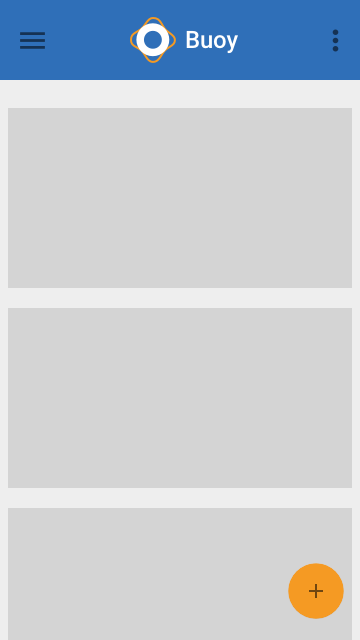
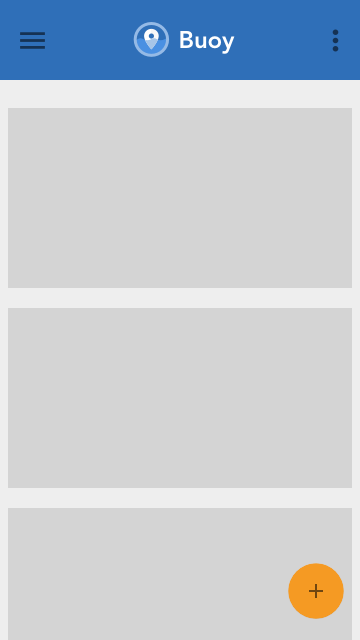
Update 2014-12-18T20:41:12.651Z

Changed region(s): [[0.3667, 0.0312, 0.6722, 0.0938]]

diff --git a/assets/stylesheets/main.css b/assets/stylesheets/main.css
@@ -899,7 +899,7 @@ html * {
 
 body {
   color: #bed1ec;
-  background-color: #477DCA; }
+  background-color: #2F6FB8; }
 
 a {
   color: #477DCA;
@@ -986,10 +986,10 @@ html, body {
     clear: both; }
   .cd-header #cd-logo {
     float: left;
-    margin: 0 0 0 5%; }
+    margin: 2.5px 0 0 5%; }
     .cd-header #cd-logo img {
       display: block;
-      width: 50px; }
+      width: 45px; }
   .cd-header #cd-action {
     display: inline-block;
     float: right;
@@ -1032,6 +1032,11 @@ html, body {
 .cd-product-intro {
   padding: 50px 5%;
   text-align: center; }
+  .cd-product-intro img {
+    max-width: 360px; }
+    @media only screen and (min-width: 1070px) {
+      .cd-product-intro img {
+        margin-left: 5%; } }
   .cd-product-intro h1 {
     margin-bottom: 10px;
     font-weight: 100;
@@ -1040,10 +1045,10 @@ html, body {
     font-weight: 700;
     line-height: 2;
     text-align: center;
-    background: url("../images/buoy_icon.png") no-repeat 30%;
+    background: url("../images/buoy_logo-text.png") no-repeat 30%;
     background-size: contain; }
     .cd-product-intro h1 img {
-      width: 80px; }
+      max-width: 360px; }
     @media only screen and (min-width: 480px) {
       .cd-product-intro h1 {
         background-position: 36%; } }

diff --git a/index.html b/index.html
@@ -11,7 +11,7 @@
     <header class='cd-header'>
       <div id='cd-logo'>
         <a href='/'>
-          <img alt='Logo' src='assets/images/buoy_icon.png'>
+          <img alt='Logo' src='assets/images/buoy_logo.png'>
         </a>
       </div>
       <div id='cd-action'>
@@ -20,9 +20,7 @@
     </header>
     <main class='cd-main-content'>
       <div class='cd-product-intro'>
-        <h1>
-          Buoy
-        </h1>
+        <img alt='Screen Preview 1' src='assets/images/buoy_logo-text.png'>
         <p>
           Loren getsum dolor sit amet, consectetur adipisicing elit. Voluptatibus praesentium, quis ab iusto possimus quaerat perspiciatis voluptas obcaecati ipsam autem.
         </p>
@@ -76,7 +74,7 @@
               <div>
                 <div class='cd-phone-frame'></div>
                 <div class='cd-image-wrapper'>
-                  <img alt='Screen Preview 3' src='assets/images/screen-1.png'>
+                  <img alt='Screen Preview 3' src='assets/images/screen-3.png'>
                 </div>
               </div>
             </div>
